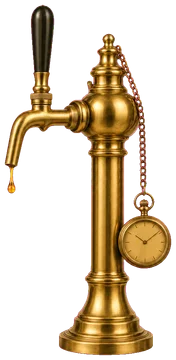
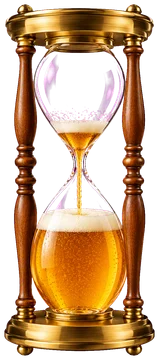
feat: klepsydra z piwem w ikonie „Jeszcze zdążę”

diff --git a/docs/PLAN.md b/docs/PLAN.md
@@ -76,7 +76,7 @@ Do ustalenia: skąd pliki (darmowe CC0 z freesound.org, wygenerowane, albo prost
 - **Plansza wstępu:** więcej miejsca między opisem a ikonami (80 px), szklanka na mecie stoi na linii numerów etapów. **Plansza etapu:** długa nazwa zawija się obok ikony.
 - **Wideo wybuchu:** piana spływa i gaśnie 1,3 s przed końcem klipu (wcześniej zjeżdżała zamrożona ostatnia klatka).
 - **Finał „15/12 kroków”** z testu: pilot i TV miały jeszcze stary kod (wdrożenie kary było w trakcie gry), który liczył przewagę + dobre bez kary. Baza liczyła już z karą i dlatego seria trwała dalej.
-- **Tripel ze zdjęciem:** grafika od Łukasza z ChatGPT (prompt `pyt-tripel` ze `scripts/grafiki.mjs`), przycięta do 4:5, `public/grafiki/pytania/tripel.webp`. **Czeka na środki w OpenAI** (25.10: „no credits remaining”): ikona „Jeszcze zdążę” jako klepsydra z piwem (`node scripts/grafiki.mjs etap-jeszcze-zdaze`).
+- **Tripel ze zdjęciem:** grafika od Łukasza z ChatGPT (prompt `pyt-tripel` ze `scripts/grafiki.mjs`), przycięta do 4:5, `public/grafiki/pytania/tripel.webp`. **Ikona „Jeszcze zdążę”:** klepsydra z piwem zamiast piasku (od Łukasza z ChatGPT, prompt `etap-jeszcze-zdaze` na magencie, wycięta jak pozostałe ikony). Konto API OpenAI nie ma środków (25.10), więc nowe grafiki na razie przez ChatGPT.
 
 ### Pijany finał
 
@@ -777,7 +777,7 @@ Na test z Basią i Łukaszem, żeby nie odpowiadali o piwie (migracja `202610241
 - **Muzyka:** pliki `etap-2.mp3` i `etap-3.mp3` zamienione miejscami.
 - **Finał na telefonie:** zła odpowiedź tylko drży, bez czerwonej obwódki (na zielonym kole „Prawda” wyglądała źle).
 - **Nazwy etapów jako wieczór w barze** (migracje `20261024194544_nazwy_etapow_wieczor_w_barze`, `20261024195856_nazwa_etapu_jakos_sie_ulozy`, pomysł Łukasza; 4. etap był po drodze „Poskładaj się” i „Poskłada się jakoś”): Na jedno → Jednak więcej → Ile? → Jakoś się ułoży → Jeszcze zdążę, w obu quizach, z dopasowanymi opisami 1., 2. i 4. etapu. Na planszy wstępu każda nazwa w jednej linii.
-- **Ikony etapów** (migracja `20261024195230_ikony_etapow`, kolumna `etapy.ikona`, w `plan_etapow` i `etap_json`): szklanka shaker (Na jedno), deska degustacyjna (Jednak więcej), menzurka z piwem (Ile?), podstawka pocięta na puzzle (Jakoś się ułoży), kran z kieszonkowym zegarkiem (Jeszcze zdążę). Na planszy wstępu nad numerem etapu, na planszy etapu przed nazwą. Grafiki `public/grafiki/etapy/` ze `scripts/grafiki.mjs`: gpt-image-2 nie robi przezroczystego tła, więc przedmiot stoi na magencie, którą skrypt wycina (`bezMagenty`). Etap bez ikony wygląda jak dotąd; w panelu ikony jeszcze nie da się wybrać.
+- **Ikony etapów** (migracja `20261024195230_ikony_etapow`, kolumna `etapy.ikona`, w `plan_etapow` i `etap_json`): szklanka shaker (Na jedno), deska degustacyjna (Jednak więcej), menzurka z piwem (Ile?), podstawka pocięta na puzzle (Jakoś się ułoży), klepsydra z piwem (Jeszcze zdążę). Na planszy wstępu nad numerem etapu, na planszy etapu przed nazwą. Grafiki `public/grafiki/etapy/` ze `scripts/grafiki.mjs`: gpt-image-2 nie robi przezroczystego tła, więc przedmiot stoi na magencie, którą skrypt wycina (`bezMagenty`). Etap bez ikony wygląda jak dotąd; w panelu ikony jeszcze nie da się wybrać.
 - **Drobne w treści:** pytanie o jęczmień „Co to? Warzy się z tego większość piw.”, pinta ze zdjęciem szklanki, „pils” zamiast „pilzner” w 9 zadaniach, w ciekawostce o grodziskim tradycja z ok. 1301 roku i statut z 1601 roku (burmistrz próbował każdą beczkę; rok 1301 to data z tradycji, nie z dokumentu).
 - **Finał: zła odpowiedź to krok w tył** (migracja `20261024200758_final_kara_za_zla_odpowiedz`): zgadywanie w prawda/fałsz daje średnio zero. Za linię startu się nie cofa (`wewn.kroki_finalu`, odbicie od zera), przewagę z etapów można stracić. Finał kończy się też, gdy któryś finalista odpowie na całą pulę; wygrywa najbliższy piwa. Opis planszy finału mówi „zła to krok w tył”. Sprawdzone SQL-em na grze testowej (odbicie od startu, utrata przewagi, koniec po puli, ranking według kroków).
 - **Grafika podium w panelu:** „Pobierz grafikę podium”; na komputerze (też Safari na Macu) zawsze pobiera plik, okno udostępniania tylko na urządzeniach dotykowych.
